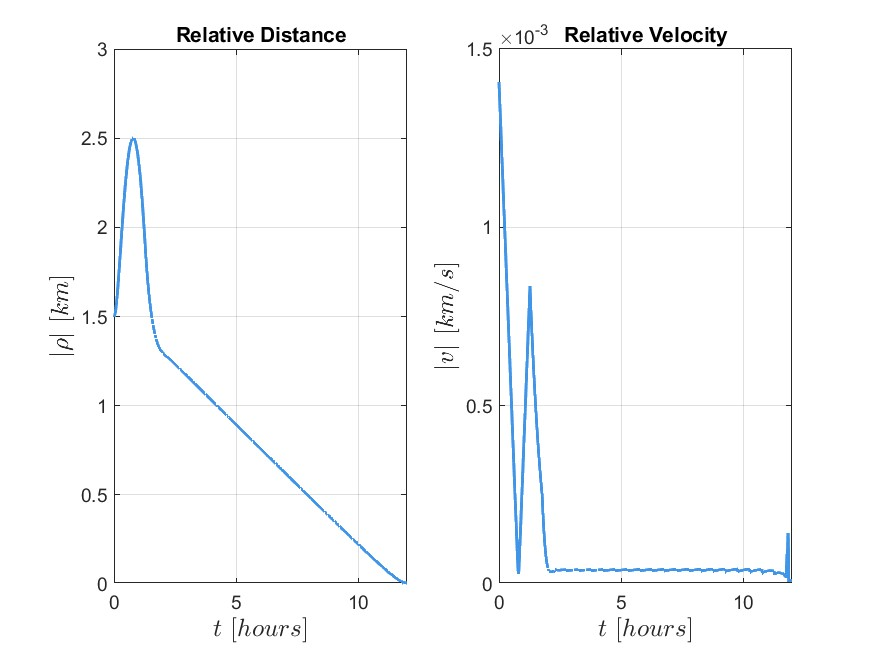
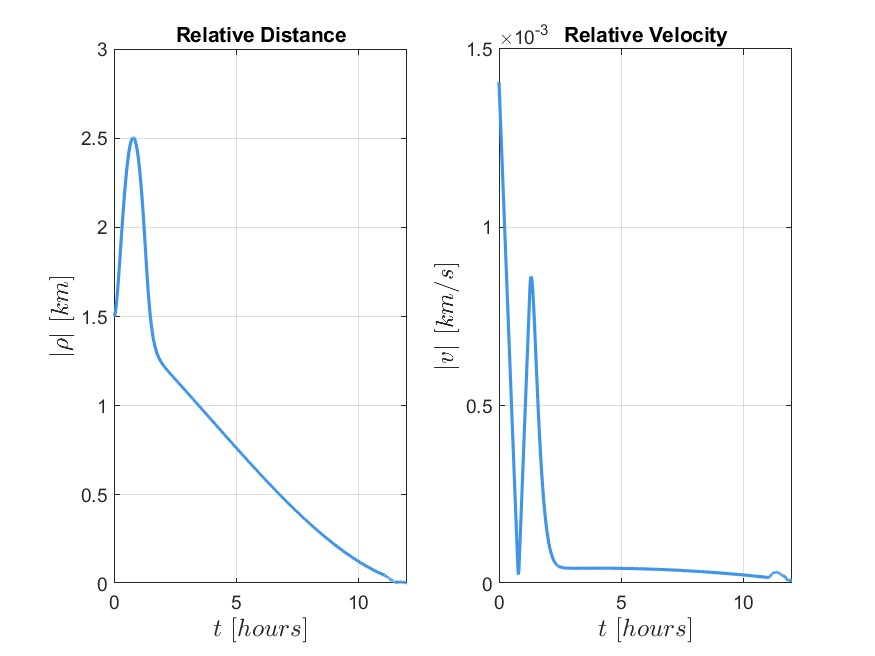
first attempt at the complete loop
still need to:
-  implement Chiara's approach for commanded attitude frame definition
- propagate position and attitude together

diff --git a/main.m b/main.m
@@ -16,7 +16,7 @@ global opt
 opt = struct('name', "Progator Options");
 opt.saveplots = false;
 opt.create_animation = false;
-opt.show_progress = true;
+opt.show_progress = false;
 opt.compute_target = false;
 
 % Define options for ode113()
@@ -203,7 +203,7 @@ stopSaturationTime = tspan_ctrl_DA(end);
 
 % Perform Natural Feedback Control
 [tspan_temp, TCC_temp] = odeHamHPC(@(t, TCC) NaturalFeedbackControl(t, TCC, EarthPPsMCI, SunPPsMCI, muM, ...
-    muE, muS, MoonPPsECI, deltaE, psiM, deltaM, omegadotPPsLVLH, t0, tf, RHOdPPsLVLH_DA, kp, DU, TU, misalignment, opt.show_progress), ...
+    muE, muS, MoonPPsECI, deltaE, psiM, deltaM, omegadotPPsLVLH, t0, tf, RHOdPPsLVLH_DA, kp, DU, TU, misalignment, opt.show_progress, 0), ...
     [tspan_ctrl_DA(end), t0_backdrift_DA], TCC_ctrl_DA(end, :), opt.N, @is_terminal_distance);
 
 % Retrieve Final State Values
@@ -224,7 +224,7 @@ fprintf('Reached 50m Distance @ %.2f hrs.\n', (t0_T-t0)*TU/3600)
 % testPPs(RHOdPPsLVLH_DA(1:3), tspan_ctrl_DA);
 
 
-%% Terminal Trajectory: Chaser State Backwards Propagation from Desired Final Conditions
+%% Terminal Trajectory: Chaser Backwards Propagation from Desired Final Conditions
 
 % Define Natural Drift Propagation Settings
 optODE_back = odeset('RelTol', 1e-9, 'AbsTol', 1e-9, 'Events', @(t, Y) driftstop_back(t, Y));
@@ -254,19 +254,122 @@ t0_backdrift = tspan_back(end);
 % figure('name', 'Backdrift Trajectory')
 % DrawTrajLVLH3D(TC_backdrift(:, 7:9)*DU);
 
-
+save('Debugging.mat');
+return
 %% Terminal Trajectory: Perform Chaser Rendezvous Manoeuvre and Natural Drift
+close all
+clear
+load('Debugging.mat');
+clc
 
-% Set the Via Points and Interpolate the Reference Trajectory
-[RHOdPPsLVLH_T, viapoints_T, t_viapoints_T] = ReferenceTrajectory(TCC_T0(1:12), TC0_backdrift, t0_T, t0_backdrift, [0, 1]);
+% Initialize Regenerative Quantities
+TCC_rt0 = TCC_T0';
+t0_rt = t0_T;
+tspan_ctrl = [];
+TCC_ctrl = [];
+RHOdPPsLVLH_T = [];
 
 % Set Null Misalignment
 misalignment = define_misalignment_error("null");
 
-% Perform Rendezvous Propagation
-[tspan_ctrl, TCC_ctrl] = odeHamHPC(@(t, TCC) NaturalFeedbackControl(t, TCC, EarthPPsMCI, SunPPsMCI, muM, ...
-    muE, muS, MoonPPsECI, deltaE, psiM, deltaM, omegadotPPsLVLH, t0, tf, RHOdPPsLVLH_T, kp, DU, TU, misalignment, opt.show_progress), ...
-    [t0_T, t0_backdrift], TCC_T0, opt.N);
+% Define Propagation Steps
+dt_gen = 5*60/TU;               % renegerative propagation step
+dt_min = 1*60/TU;               % minimum propagation step
+max_steps = 100;                % maximum steps of the regenerative trajectory
+
+% Define Propagation Settings
+optODE_rt = odeset('RelTol', 1e-9, 'AbsTol', 1e-9);
+
+% Define Global signvect Variable
+global signvect
+
+for step = 1 : max_steps
+
+    % Set the Via Points and Interpolate the Reference Terminal Trajectory
+    [RHOdPPsLVLH_rt, viapoints_rt, t_viapoints_rt] = ReferenceTrajectory(TCC_rt0(1:12), TC0_backdrift, t0_rt, t0_backdrift, [0, 1]);
+
+    % Set Final Propagation Time and Define timespan
+    if length(t_viapoints_rt) >= 3
+        if t0_rt + dt_min < t_viapoints_rt(2)
+            tf_rt = t_viapoints_rt(2);
+        else
+            tf_rt = t0_backdrift;
+        end
+    else
+        tf_rt = t0_backdrift;
+    end
+    tspan_rt = [t0_rt : 1/TU : tf_rt]';
+
+    % Propagate to Final Propagation Time
+    [~, TCC_rt] = ode113(@(t, TCC) NaturalFeedbackControl(t, TCC, EarthPPsMCI, SunPPsMCI, muM, ...
+        muE, muS, MoonPPsECI, deltaE, psiM, deltaM, omegadotPPsLVLH, t0, tf, RHOdPPsLVLH_rt, kp, DU, TU, misalignment, opt.show_progress, 1), ...
+        tspan_rt, TCC_rt0, optODE_rt);
+
+    % Retrieve Commanded Attitude via [xc, yc, zc] in MCI
+    M_rt = length(tspan_rt);
+    xc_MCI = zeros(M_rt, 3);
+    yc_MCI = zeros(M_rt, 3);
+    zc_MCI = zeros(M_rt, 3);
+    R_N2C = zeros(3, 3, M_rt);
+    Q_N2C = zeros(M_rt, 4);
+    
+    MEEt_rt = TCC_rt(:, 1:6);       % retrieve Target State
+    COEt_rt = MEE2COE(MEEt_rt);
+    Xt_MCI_rt = COE2rvPCI(COEt_rt, muM);
+    
+    c3_MCI = [0, 0, 1]'; %   USE CHIARA's APPROACH
+    
+    for i = 1 : M_rt
+    
+        % Retrieve Thrust Acceleration in LVLH
+        [~, ~, ~, ~, u, ~, ~, ~, ~] = NaturalFeedbackControl(tspan_rt(i), TCC_rt(i, :), EarthPPsMCI, SunPPsMCI, muM, ...
+            muE, muS, MoonPPsECI, deltaE, psiM, deltaM, omegadotPPsLVLH, t0, tf, RHOdPPsLVLH_rt, kp, DU, TU, misalignment, 0, 0);
+        xc_LVLH = u / norm(u);      % normalize to find xc versor in LVLH
+    
+        % Rotate from LVLH to MCI
+        [R_LVLH2MCI, ~] = get_rotLVLH2MCI(Xt_MCI_rt(i, :)', tspan_rt(i), EarthPPsMCI, SunPPsMCI, MoonPPsECI, muE, muS, deltaE, psiM, deltaM);
+        xc_MCI(i, :) = R_LVLH2MCI*xc_LVLH;
+        yc_MCI(i, :) = cross(c3_MCI, xc_MCI(i, :)')/norm(cross(c3_MCI, xc_MCI(i, :)'));
+        zc_MCI(i, :) = cross(xc_MCI(i, :)', yc_MCI(i, :)');
+    
+        R_N2C(:, :, i) = [xc_MCI(i, :)', yc_MCI(i, :)', zc_MCI(i, :)']';
+    
+        if step == 1 && i == 1
+            [q0c, qc] = C2q(R_N2C(:, :, i));
+            signvect = [sign(q0c), sign(qc(1)), sign(qc(2)), sign(qc(3))]';
+        else
+            [q0c, qc] = matrixToQuat(R_N2C(:, :, i));
+        end
+        Q_N2C(i, :) = [q0c, qc'];
+    
+    end
+
+    % Interpolate R_N2C and compute its derivative
+    R_N2C_PPs_rt = get_rotPPs(tspan_rt, R_N2C);
+    Rdot_N2C_PPs_rt = fnder_rots(R_N2C_PPs_rt);
+    
+    % Compute angular velocity of Commanded Attitude and its derivative
+    omega_c_rt = zeros(M_rt, 3);
+    for i = 1 : M_rt
+        Rdot_N2C_rt = rotppsval(Rdot_N2C_PPs_rt, tspan_rt(i));
+        omega_c_rt(i, :) = unskew(-Rdot_N2C_rt * R_N2C(:, :, i)');
+    end
+    omega_cPPs_rt = get_statePP(tspan_rt, omega_c_rt);
+    
+    omegadot_cPPs_rt = [fnder(omega_cPPs_rt(1), 1);
+                      fnder(omega_cPPs_rt(2), 1);
+                      fnder(omega_cPPs_rt(3), 1)];
+    
+    % Propagate Trajectory and Attitude
+
+
+    % Stack the Output
+    tspan_ctrl = [tspan_ctrl; tspan_rt];
+    TCC_ctrl = [TCC_ctrl; TCC_rt];
+    RHOdPPsLVLH_T = [RHOdPPsLVLH_T, RHOdPPsLVLH_rt];
+    
+
+end
 
 if opt.show_progress
     close(pbar)
@@ -301,10 +404,10 @@ Xt_MCI_T = COE2rvPCI(COEt_T, muM);
 c3_MCI = [0, 0, 1]'; %   SE GLI ASSI SONO ALLINEATI SUCCEDE UN CASINO
 
 for i = 1 : M_ctrl
-    
+
     % Retrieve Thrust Acceleration in LVLH
     [~, ~, ~, ~, u, ~, ~, ~, ~] = NaturalFeedbackControl(tspan_ctrl(i), TCC_ctrl(i, :), EarthPPsMCI, SunPPsMCI, muM, ...
-        muE, muS, MoonPPsECI, deltaE, psiM, deltaM, omegadotPPsLVLH, t0, tf, RHOdPPsLVLH_T, kp, DU, TU, misalignment, 0);
+        muE, muS, MoonPPsECI, deltaE, psiM, deltaM, omegadotPPsLVLH, t0, tf, RHOdPPsLVLH_T, kp, DU, TU, misalignment, 0, 0);
     xc_LVLH = u / norm(u);      % normalize to find xc versor in LVLH
 
     % Rotate from LVLH to MCI
@@ -566,7 +669,7 @@ for i = 1 : size(RHO_LVLH, 1)
         s = i - M_ctrl_DA;              % auxiliary index
         [dY, ~, ~, ~, u(i, :), ~, ~, ~, f_norms(i)] = ...
             NaturalFeedbackControl(tspan_ctrl(s), TCC_ctrl(s, :), EarthPPsMCI, SunPPsMCI, muM, ...
-            muE, muS, MoonPPsECI, deltaE, psiM, deltaM, omegadotPPsLVLH, t0, tf, RHOdPPsLVLH_T, kp, DU, TU, misalignment, 0);
+            muE, muS, MoonPPsECI, deltaE, psiM, deltaM, omegadotPPsLVLH, t0, tf, RHOdPPsLVLH_T, kp, DU, TU, misalignment, 0, 0);
         RHOd_LVLH(i, :) = ppsval(RHOdPPsLVLH_T, tspan(i));
         kp_store(i) = kp;
         u_norms(i) = norm(u(i, :));

diff --git a/Library/matrixToQuat.m b/Library/matrixToQuat.m
@@ -1,0 +1,52 @@
+function [q0,qvect]=matrixToQuat(matrr)
+
+global signvect;
+
+qsqrd=[1,1,-1,-1;1,-1,1,-1;1,-1,-1,1;1,1,1,1]^(-1)*[matrr(1,1);matrr(2,2);matrr(3,3);1];
+
+[maxq,indmax]=max(qsqrd);
+
+% matrix=[q0^2+q1^2-q2^2-q3^2,2*(q1*q2+q0*q3),2*(q1*q3-q0*q2);...
+%     2*(q1*q2-q0*q3),q0^2+q2^2-q1^2-q3^2,2*(q3*q2+q0*q1);...
+%     2*(q1*q3+q0*q2),2*(q3*q2-q0*q1),q0^2+q3^2-q2^2-q1^2];
+
+if indmax==1
+    q0=signvect(1)*sqrt(maxq);
+    q1=(matrr(2,3)-matrr(3,2))/(4*q0);
+    q2=(matrr(3,1)-matrr(1,3))/(4*q0);
+    q3=(matrr(1,2)-matrr(2,1))/(4*q0);
+    signvect(2)=sign(q1);
+    signvect(3)=sign(q2);
+    signvect(4)=sign(q3);
+elseif indmax==2
+    q1=signvect(2)*sqrt(maxq);
+    q0=(matrr(2,3)-matrr(3,2))/(4*q1);
+    q2=(matrr(1,2)+matrr(2,1))/(4*q1);
+    q3=(matrr(1,3)+matrr(3,1))/(4*q1);
+    signvect(1)=sign(q0);
+    signvect(3)=sign(q2);
+    signvect(4)=sign(q3);
+elseif indmax==3
+    q2=signvect(3)*sqrt(maxq);
+    q0=(matrr(3,1)-matrr(1,3))/(4*q2);
+    q1=(matrr(1,2)-matrr(2,1))/(4*q2);
+    q3=(matrr(2,3)+matrr(3,2))/(4*q2);
+    signvect(1)=sign(q0);
+    signvect(2)=sign(q1);
+    signvect(4)=sign(q3);
+elseif indmax==4
+    q3=signvect(4)*sqrt(maxq);
+    q0=(matrr(1,2)-matrr(2,1))/(4*q3);
+    q1=(matrr(1,3)+matrr(3,1))/(4*q3);
+    q2=(matrr(2,3)+matrr(3,2))/(4*q3);
+    signvect(1)=sign(q0);
+    signvect(2)=sign(q1);
+    signvect(3)=sign(q2);
+end
+
+qvect=[q1;q2;q3];
+
+% matrix=[q0^2+q1^2-q2^2-q3^2,2*(q1*q2+q0*q3),2*(q1*q3-q0*q2);...
+%     2*(q1*q2-q0*q3),q0^2+q2^2-q1^2-q3^2,2*(q3*q2+q0*q1);...
+%     2*(q1*q3+q0*q2),2*(q3*q2-q0*q1),q0^2+q3^2-q2^2-q1^2];
+

diff --git a/Library/HybridPredictiveControl.m b/Library/HybridPredictiveControl.m
@@ -120,7 +120,7 @@ if t > checkTimes(index) && verifiedTimes(index) == 0 && stopPrediction == 0
 
     % Perform the Propagation
     [tspan, ControlledRelativeState] = odeHamHPC(@(t, state) NaturalFeedbackControl(t, state, EarthPPsMCI, SunPPsMCI, muM, ...
-        muE, muS, MoonPPsECI, deltaE, psiM, deltaM, omegadotPPsLVLH, t0, tf, ppXd, kp, DU, TU, misalignment, clock), ...
+        muE, muS, MoonPPsECI, deltaE, psiM, deltaM, omegadotPPsLVLH, t0, tf, ppXd, kp, DU, TU, misalignment, clock, 0), ...
         [t0_int, tf_int], TCC, N_inner_integration);
 
     % Predictive Propagation Post-Processing
@@ -131,7 +131,7 @@ if t > checkTimes(index) && verifiedTimes(index) == 0 && stopPrediction == 0
         [~, ~, ~, ~, u_future(:,s), ...
             ~, ~, ~, ~] = NaturalFeedbackControl(tspan(s), ...
             ControlledRelativeState(s,:), EarthPPsMCI, SunPPsMCI, muM, ...
-            muE, muS, MoonPPsECI, deltaE, psiM, deltaM, omegadotPPsLVLH, t0, tf, ppXd, kp, DU, TU, misalignment, clock);
+            muE, muS, MoonPPsECI, deltaE, psiM, deltaM, omegadotPPsLVLH, t0, tf, ppXd, kp, DU, TU, misalignment, clock, 0);
         u_norms(s) = norm(u_future(:,s));
     end
     

diff --git a/Library/NaturalFeedbackControl.m b/Library/NaturalFeedbackControl.m
@@ -1,7 +1,7 @@
 function [dTCC, omega_LVLH, omegadot_LVLH, apc_LVLHt, u, rhod_LVLH,...
     rhodotd_LVLH, rhoddotd_LVLH, f_norm] = NaturalFeedbackControl(t, ...
     TCC, EarthPPsMCI, SunPPsMCI, muM, muE, muS, MoonPPsECI, deltaE, ...
-    psiM, deltaM, omegadotPPsLVLH, t0, tf, ppXd, kp, DU, TU, misalignment, clock)
+    psiM, deltaM, omegadotPPsLVLH, t0, tf, ppXd, kp, DU, TU, misalignment, clock, is_row)
 
 % ----- Natural Relative Motion ----- %
 
@@ -11,8 +11,13 @@ global pbar
 dTCC = zeros(13, 1); 
     
 % Retrieve Data from Input
-MEEt = TCC(1:6)';
-RHO_LVLH = TCC(7:12)';
+if is_row
+    MEEt = TCC(1:6);
+    RHO_LVLH = TCC(7:12);
+else
+    MEEt = TCC(1:6)';
+    RHO_LVLH = TCC(7:12)';
+end
 x7 = TCC(13);
 
 % Retrieve RHO State Variables
